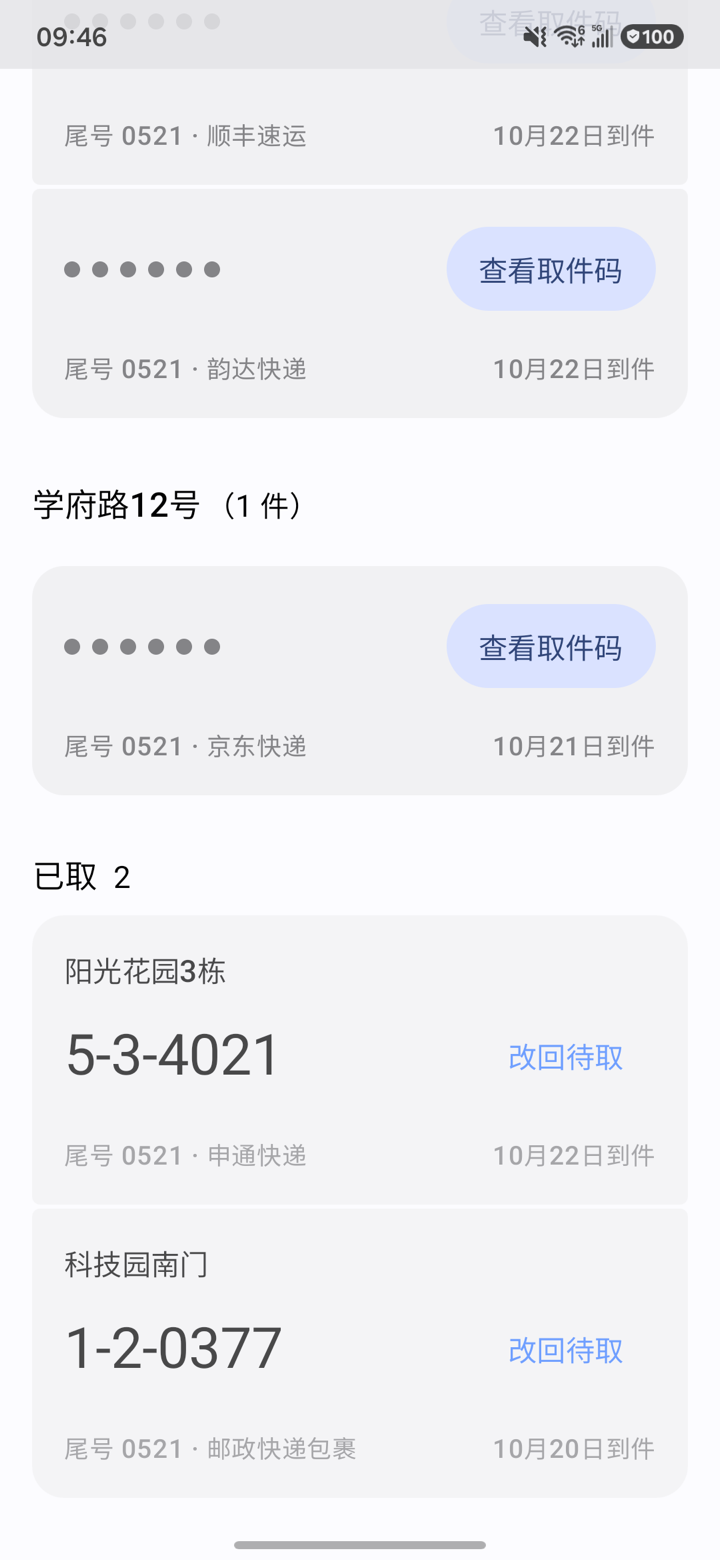
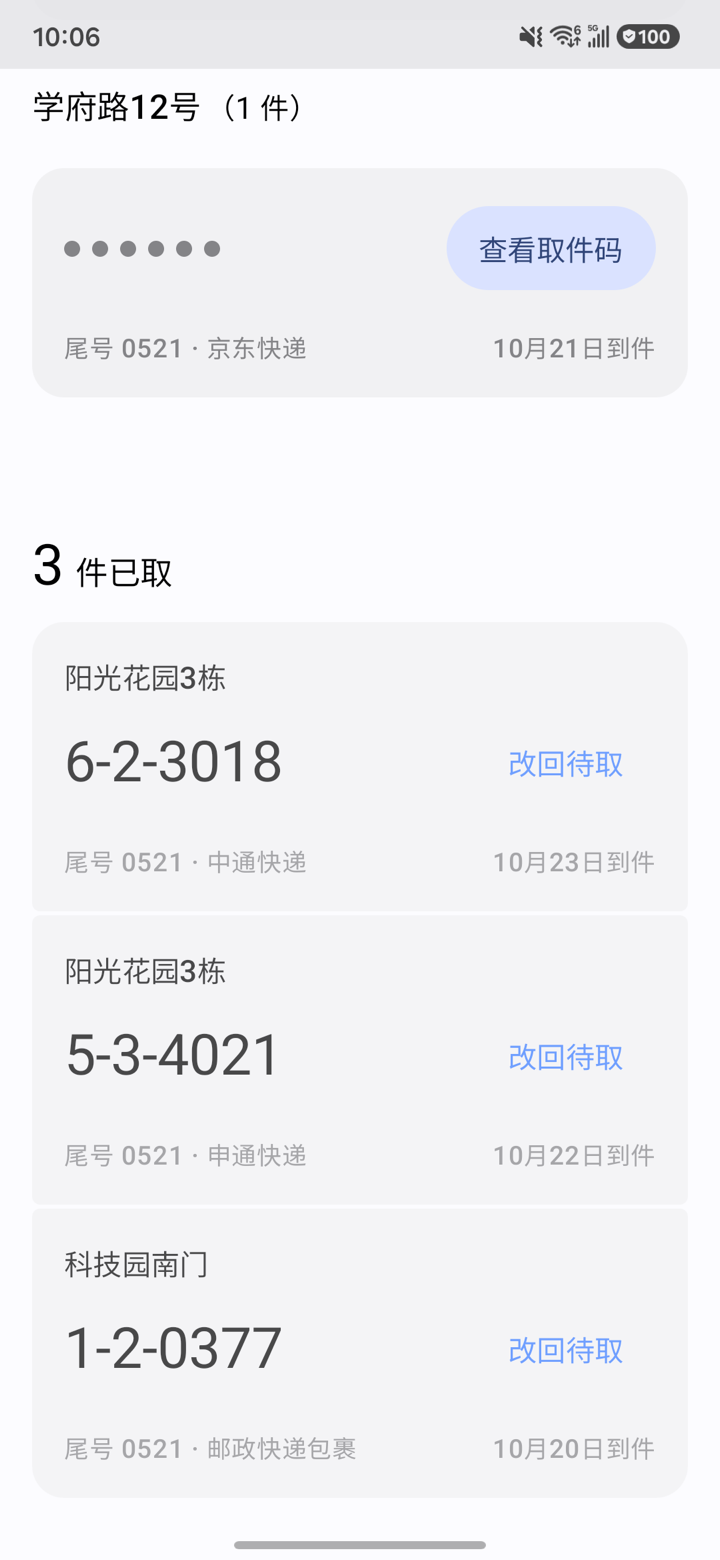
docs: 更新已取区截图

diff --git a/README.md b/README.md
@@ -7,10 +7,10 @@
 <p>
   <img src="docs/screenshots/list.png" width="260" alt="待取清单：按取件地点分组，取件码先遮住">
   <img src="docs/screenshots/reveal.png" width="260" alt="查看取件码：显示取件码并记为已取，可就地撤销">
-  <img src="docs/screenshots/picked.png" width="260" alt="已取区：最近取走的包裹，可改回待取">
+  <img src="docs/screenshots/picked.png" width="260" alt="已取区：刚取走的排最上，可改回待取">
 </p>
 
-从左到右：按地点分组的待取清单，取件码先遮住；到了驿站点「查看取件码」，看码即记为已取，可就地撤销；已取区列出最近取走的包裹。截图里是演示数据。
+从左到右：按地点分组的待取清单，取件码先遮住；到了驿站点「查看取件码」，看码即记为已取，可就地撤销；已取区里刚取走的排最上，方便反悔。截图里是演示数据。
 
 ## 特性
 
